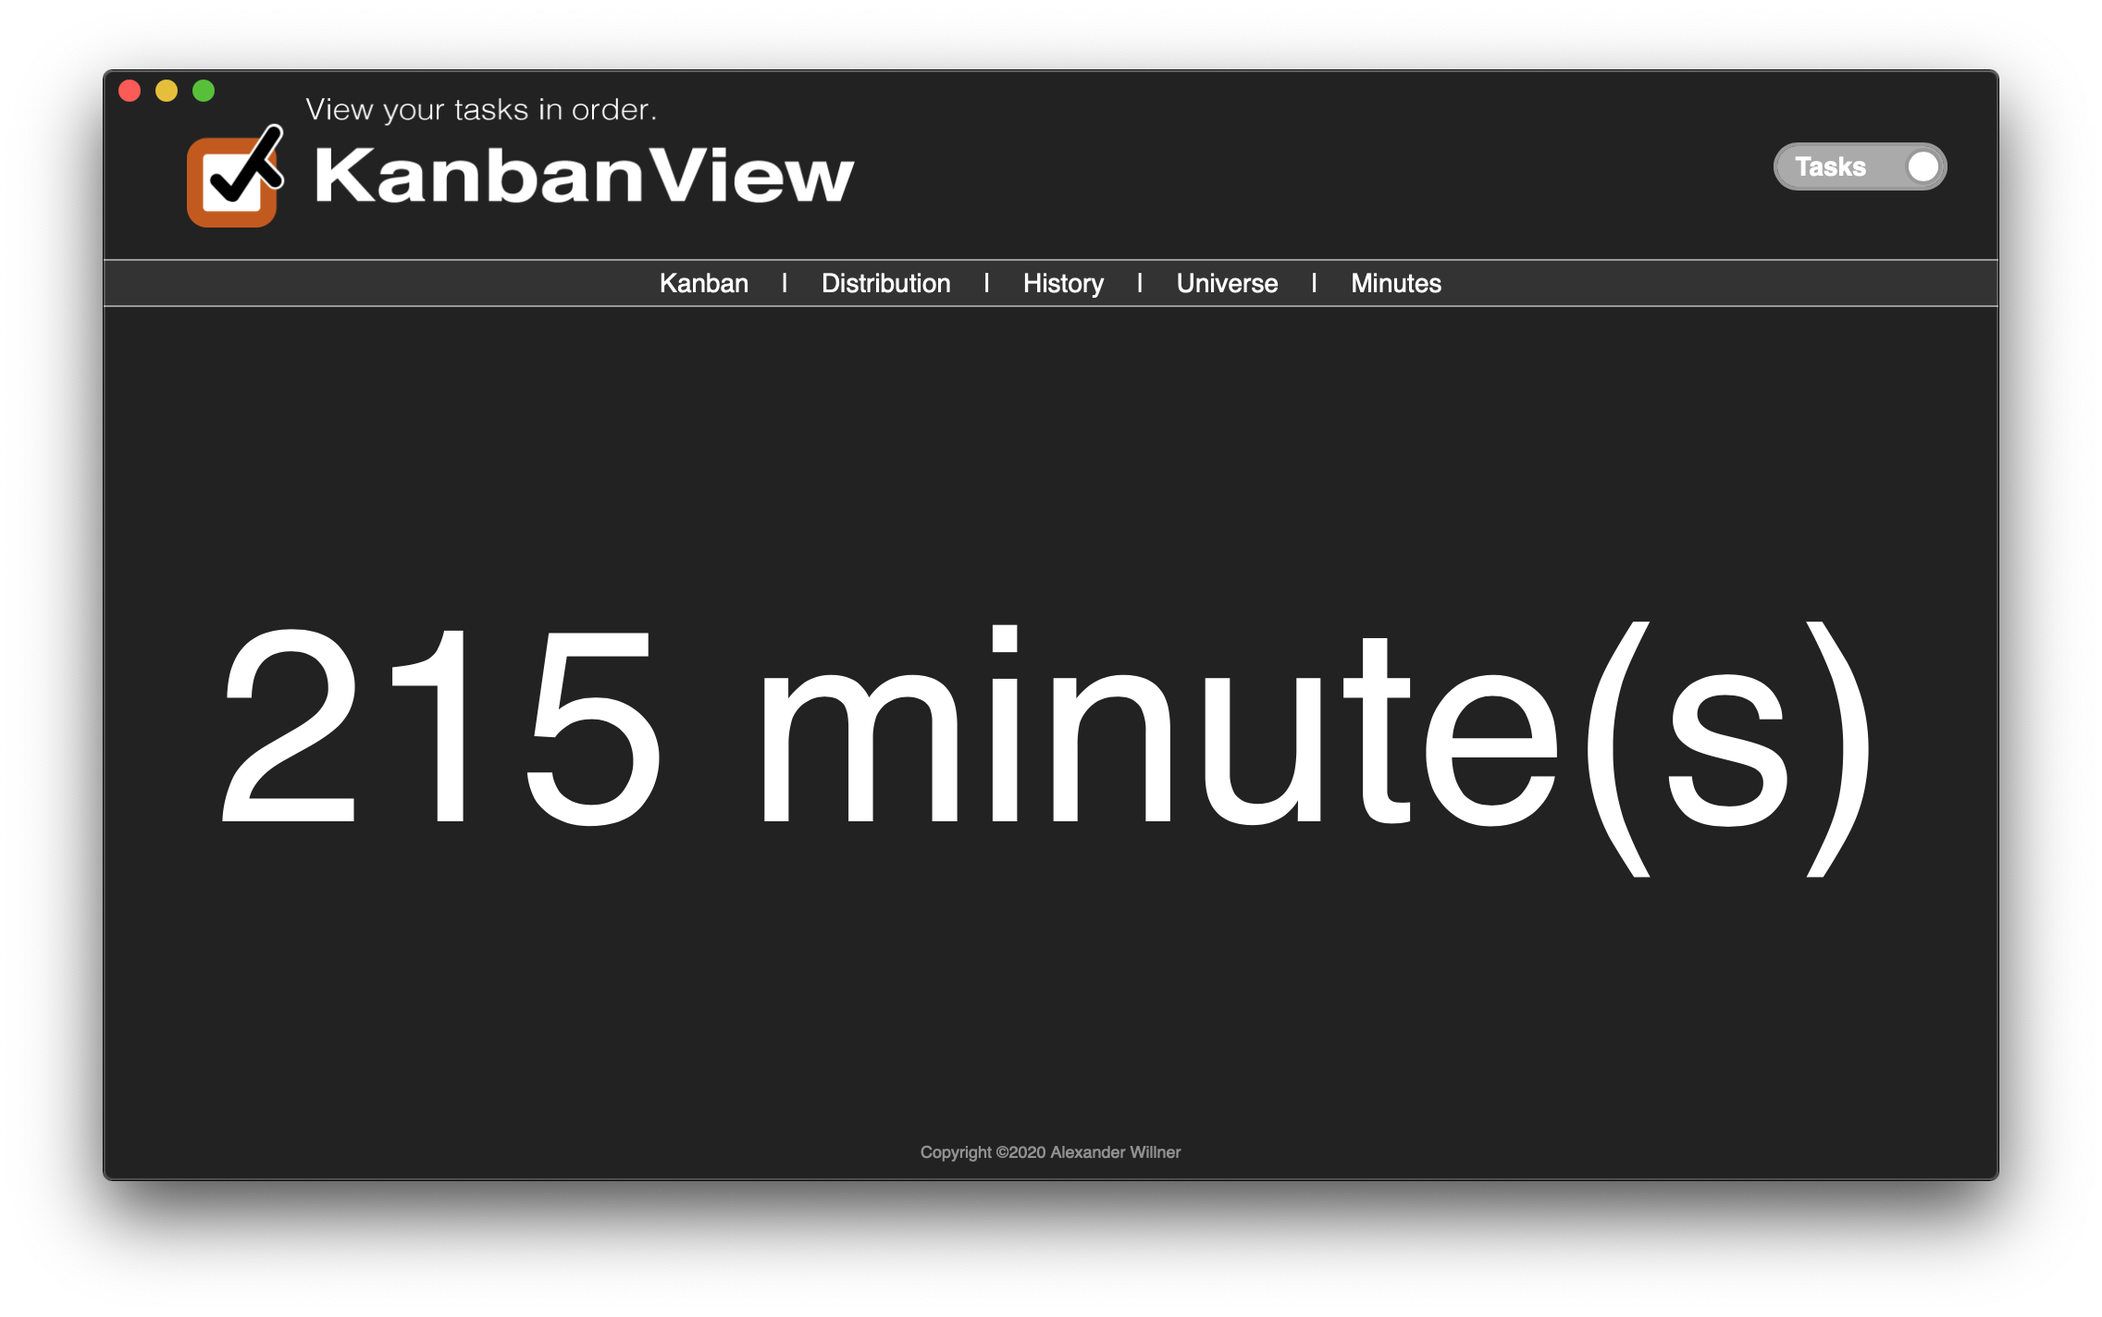
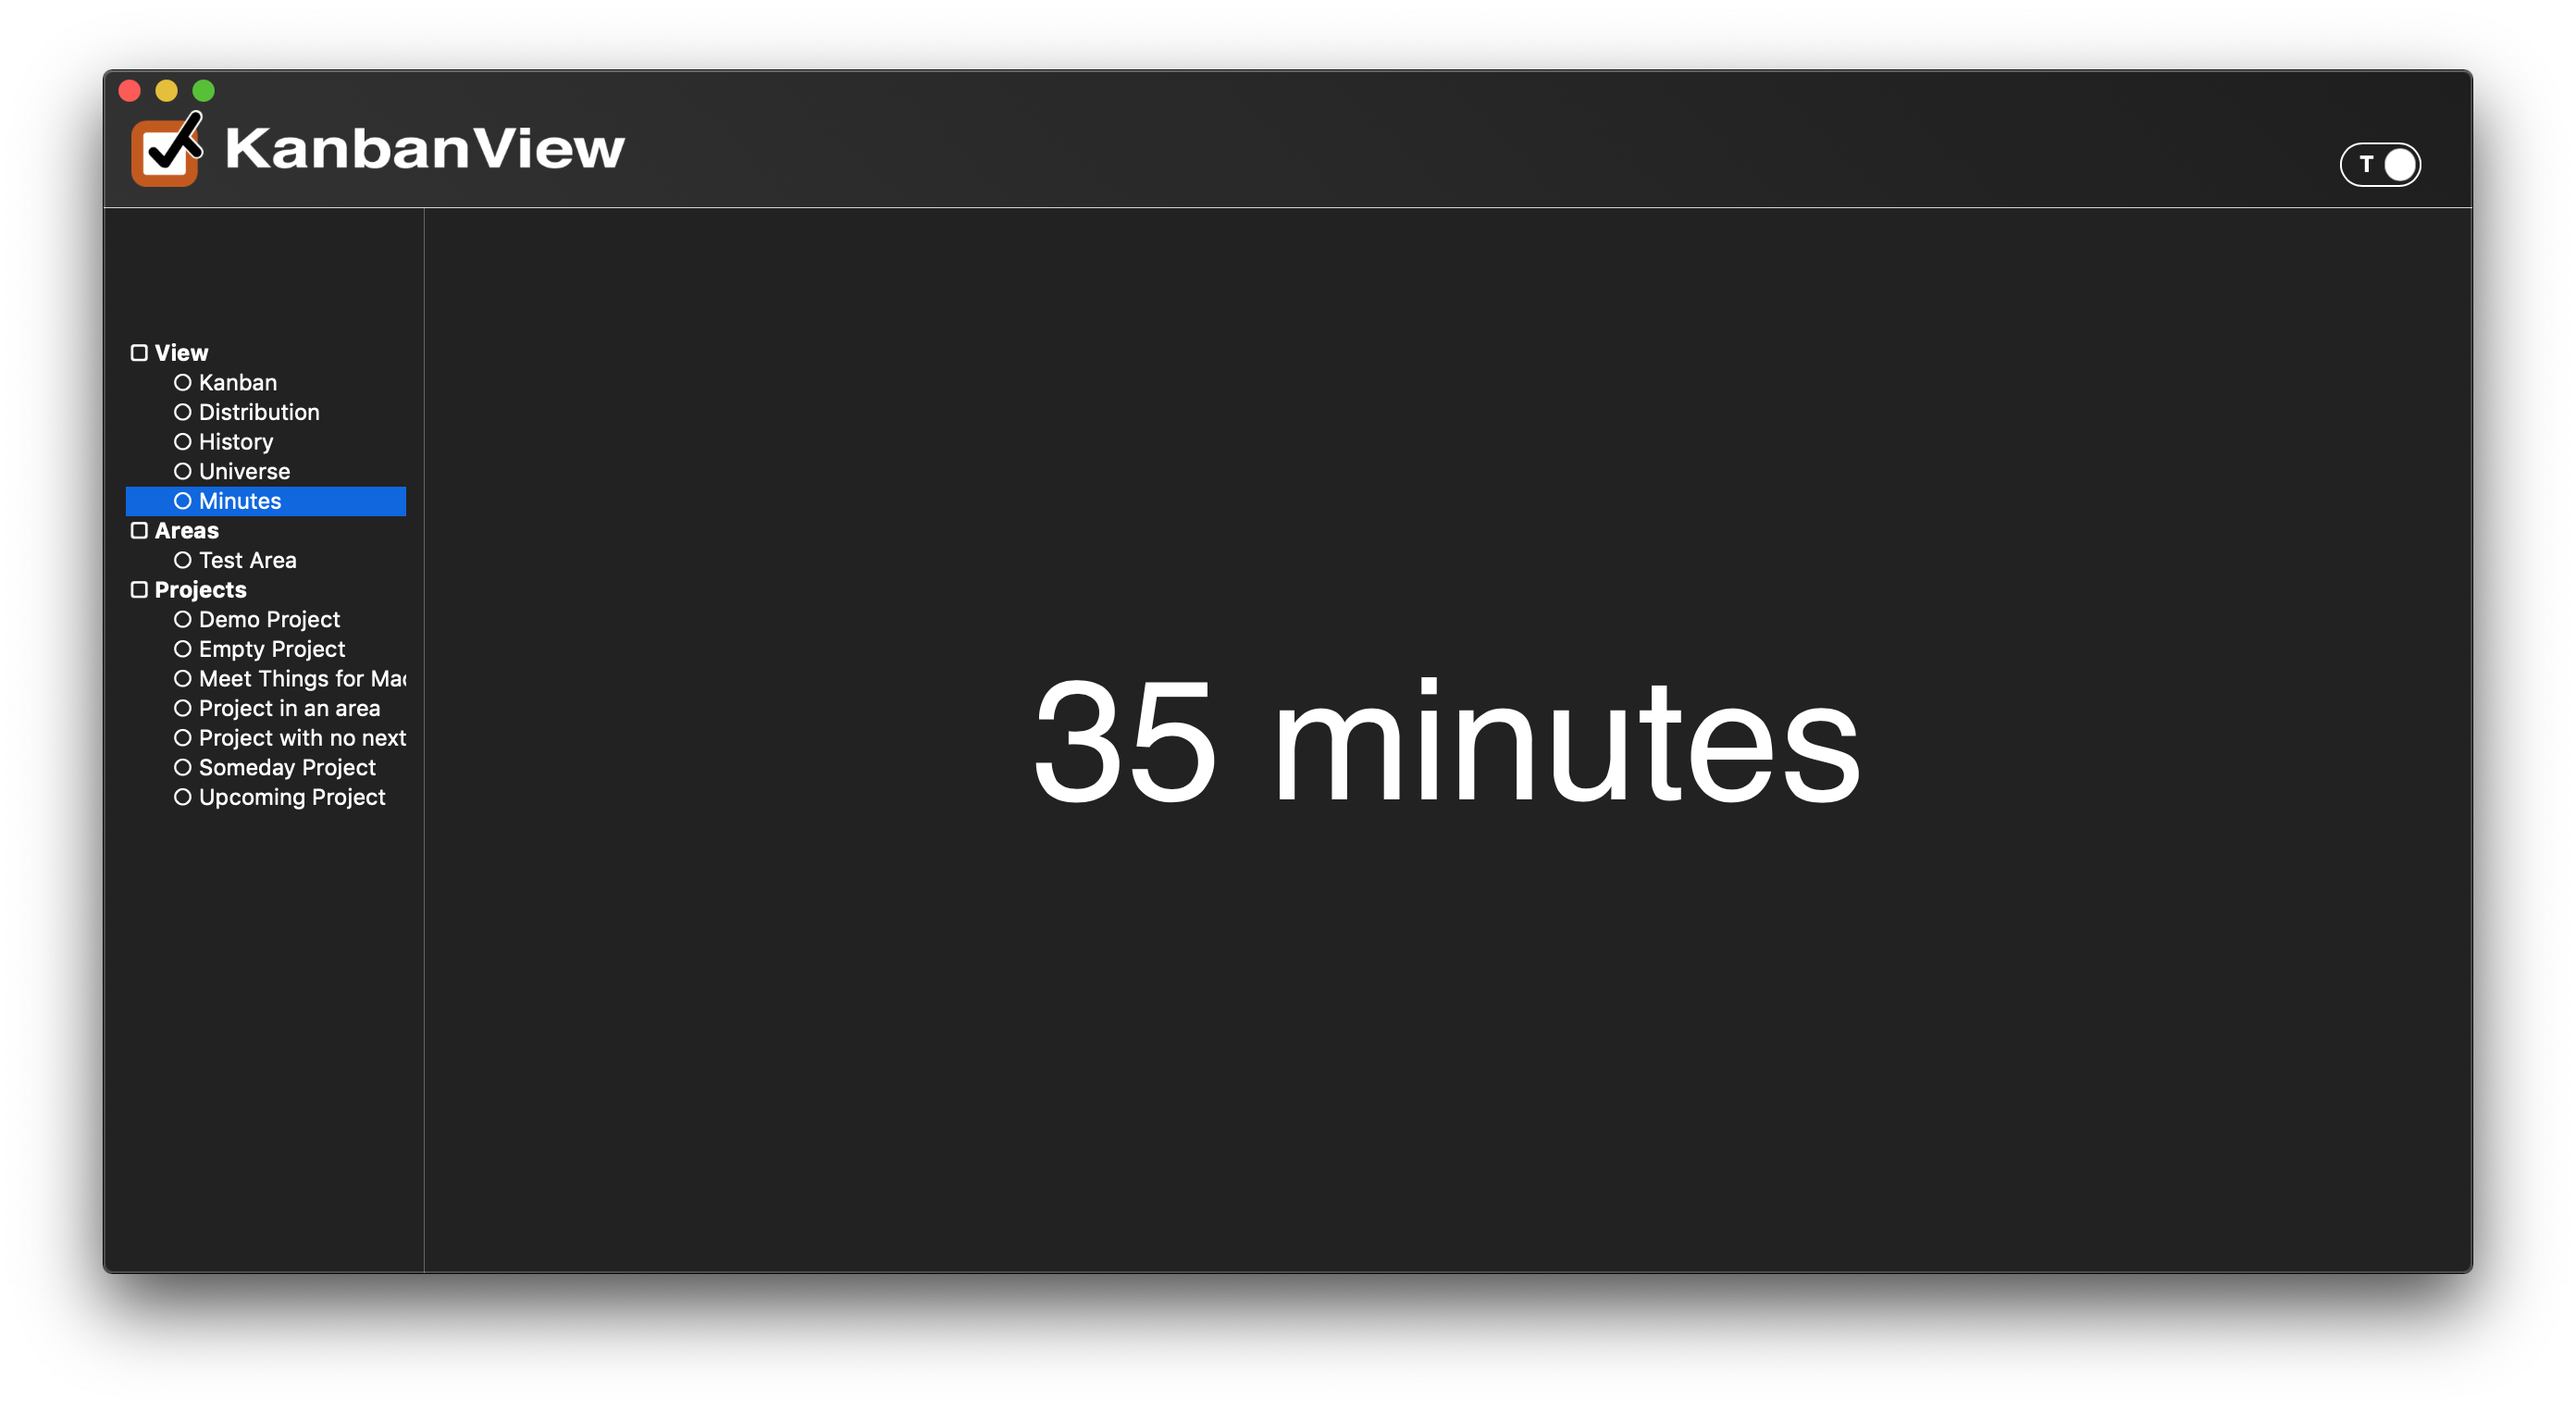
new screenshots

diff --git a/README.md b/README.md
@@ -34,9 +34,9 @@ The **dynamic** version runs a web application at [http://localhost:15000/kanban
 
 The **app** version runs a macOS application via `make run-app`. You can also create a compiled bundle **KanbanView.app** version that encapsulates the scripts into an easy to use standalone macOS application. 
 
-Dark mode:
+Dark mode with project mode enabled:
 
-![dark-mode](https://github.com/AlexanderWillner/KanbanView/raw/master/doc/view-2020-dark.png)
+![dark-mode](https://github.com/AlexanderWillner/KanbanView/raw/master/doc/view-2020-dark-projects.png)
 
 Types of tasks:
 
@@ -44,11 +44,11 @@ Types of tasks:
 
 History of task actions:
 
-![stat-types](https://github.com/AlexanderWillner/KanbanView/raw/master/doc/view-2020-dark-stats.png)
+![stat-types](https://github.com/AlexanderWillner/KanbanView/raw/master/doc/view-2020-stats.png)
 
 Universe view on the projects:
 
-![stat-types](https://github.com/AlexanderWillner/KanbanView/raw/master/doc/view-2020-dark-universe.png)
+![stat-types](https://github.com/AlexanderWillner/KanbanView/raw/master/doc/view-2020-universe.png)
 
 How many minutes are scheduled for today:
 
